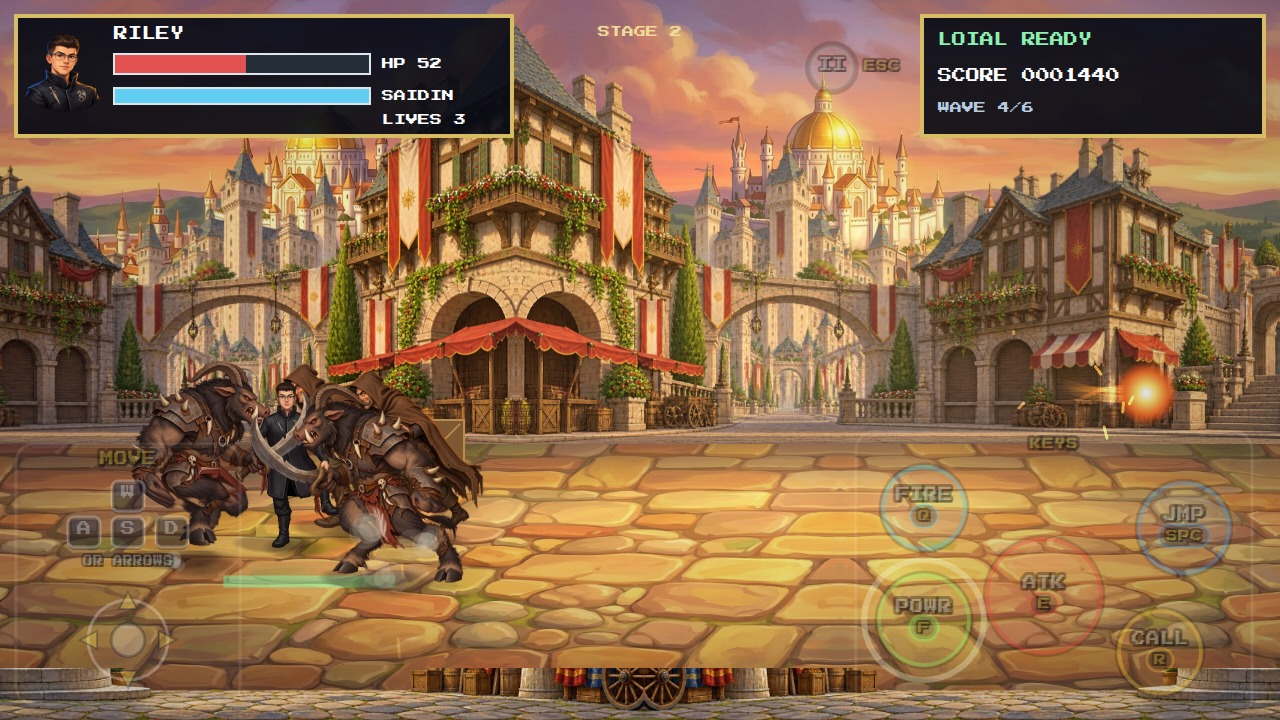
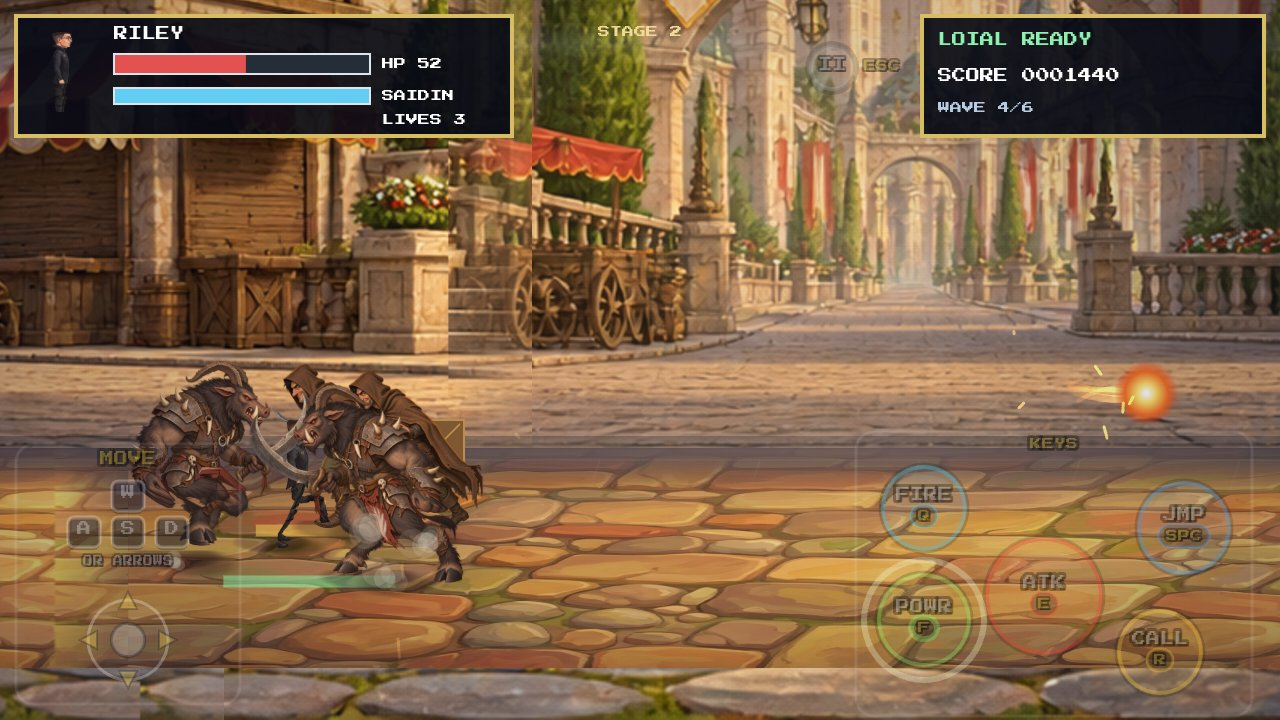
w3b: side-view kid Riley with split kick leg, Be'lal front-hand sword, wide single-join plates, regenerated review JPEGs (check 62/62, assisted soak 50/50)

diff --git a/js/puppets.js b/js/puppets.js
@@ -6,7 +6,7 @@
   const R=window.RWB;
   // Joint coordinates on the delivered images: shoulder/elbow/wrist, hip/knee/ankle.
   const defs={
-    riley:{key:'riley-sheet',fallback:'rig-riley',sourcePanel:'top-middle-side',variant:'kid',height:64,headRatio:.225,headScale:1.50,headWidth:1.08,torsoScale:.78,legScale:.70,shoulderScale:.78,front:false,hipLine:.54,head:[.20,.015,.68,.18],neck:[.43,.224],pelvis:[.48,.56],arms:[[[.36,.27],[.29,.40],[.25,.52]],[[.53,.27],[.58,.40],[.58,.51]]],legs:[[[.42,.57],[.40,.74],[.33,.975]],[[.54,.57],[.56,.75],[.58,.985]]]},
+    riley:{key:'riley-sheet',splitLegs:true,fallback:'rig-riley',sourcePanel:'top-middle-side',variant:'kid',height:64,headRatio:.225,headScale:1.45,headWidth:1.08,torsoScale:.78,legScale:.70,shoulderScale:.78,front:false,hipLine:.56,soles:[[.36,.985],[.56,.985]],head:[.18,.015,.72,.175],neck:[.42,.18],pelvis:[.46,.56],arms:[[[.55,.23],[.56,.40],[.45,.54]],[[.58,.23],[.59,.40],[.48,.54]]],legs:[[[.42,.57],[.42,.78],[.36,.93]],[[.52,.57],[.54,.78],[.56,.93]]]},
     twinkle:{key:'rig-twinkle',height:59,front:true,head:[.27,0,.72,.29],neck:[.50,.28],pelvis:[.50,.64],arms:[[[.26,.30],[.14,.46],[.09,.59]],[[.75,.30],[.86,.46],[.91,.59]]],legs:[[[.35,.73],[.35,.85],[.24,.98]],[[.65,.73],[.65,.85],[.77,.98]]]},
     trolloc:{key:'cg-trolloc',height:100,head:[.23,0,.70,.40],neck:[.53,.30],pelvis:[.64,.59],arms:[[[.51,.37],[.40,.46],[.33,.51]],[[.79,.34],[.90,.45],[.89,.60]]],legs:[[[.55,.60],[.44,.73],[.36,.93]],[[.72,.60],[.82,.77],[.92,.97]]]},
     chieftain:{key:'cg-trolloc-chieftain',height:119,head:[.29,0,.73,.27],neck:[.52,.27],pelvis:[.51,.62],arms:[[[.26,.31],[.18,.47],[.31,.52]],[[.75,.32],[.79,.48],[.72,.61]]],legs:[[[.40,.61],[.35,.78],[.22,.965]],[[.62,.62],[.72,.78],[.81,.97]]]},
@@ -29,31 +29,35 @@
       // Native 1824x2318 sheet: isolate its top-middle, three-quarter/side
       // figure.  Chroma key only the edge-connected neutral grey so highlights
       // inside the painted figure survive with a soft antialiased fringe.
-      c.width=460;c.height=1140;const cg=c.getContext('2d');cg.drawImage(image,690,18,460,1140,0,0,460,1140);
-      const id=cg.getImageData(0,0,c.width,c.height),p=id.data;
-      for(let i=0;i<p.length;i+=4){const dr=p[i]-200,dg=p[i+1]-199,db=p[i+2]-200,dist=Math.hypot(dr,dg,db);if(dist<34)p[i+3]=Math.round(255*Math.max(0,(dist-8)/26));}
+      c.width=320;c.height=1140;const cg=c.getContext('2d');cg.drawImage(image,780,40,320,1140,0,0,320,1140);
+      const id=cg.getImageData(0,0,c.width,c.height),p=id.data,edge=new Uint8Array(c.width*c.height),queue=new Uint32Array(c.width*c.height);let first=0,last=0;
+      const distance=i=>Math.hypot(p[i*4]-200,p[i*4+1]-199,p[i*4+2]-200),offer=i=>{if(!edge[i]&&distance(i)<40){edge[i]=1;queue[last++]=i;}};
+      for(let x=0;x<c.width;x++){offer(x);offer((c.height-1)*c.width+x);}for(let y=0;y<c.height;y++){offer(y*c.width);offer(y*c.width+c.width-1);}
+      while(first<last){const i=queue[first++],x=i%c.width,y=(i/c.width)|0;if(x)offer(i-1);if(x+1<c.width)offer(i+1);if(y)offer(i-c.width);if(y+1<c.height)offer(i+c.width);}
+      for(let i=0;i<edge.length;i++)if(edge[i]){const dist=distance(i);p[i*4+3]=Math.round(p[i*4+3]*Math.max(0,Math.min(1,(dist-28)/12)));}
       cg.putImageData(id,0,0);
     } else {c.width=image.width;c.height=image.height;c.getContext('2d').drawImage(image,0,0);}
     const g=c.getContext('2d');
     if(d.variant==='kid'){
       // End the long adult coat at the hip. Continue two trouser columns up
       // beneath the short tunic using texture sampled from the supplied legs.
-      const hip=Math.round(c.height*d.hipLine),legTop=Math.round(c.height*.66),legBottom=Math.round(c.height*.82);
-      g.clearRect(0,hip,c.width,legTop-hip);
-      g.drawImage(c,Math.round(c.width*.35),legTop,Math.round(c.width*.13),legBottom-legTop,Math.round(c.width*.35),hip,Math.round(c.width*.13),legTop-hip);
-      g.drawImage(c,Math.round(c.width*.48),legTop,Math.round(c.width*.13),legBottom-legTop,Math.round(c.width*.48),hip,Math.round(c.width*.13),legTop-hip);
+      const hip=Math.round(c.height*d.hipLine),fillBottom=Math.round(c.height*.70),sampleBottom=Math.round(c.height*.80),left=Math.round(c.width*.10),width=Math.round(c.width*.80);
+      const trousers=document.createElement('canvas');trousers.width=width;trousers.height=sampleBottom-fillBottom;
+      trousers.getContext('2d').drawImage(c,left,fillBottom,width,sampleBottom-fillBottom,0,0,width,sampleBottom-fillBottom);
+      g.clearRect(left,hip,width,fillBottom-hip);
+      g.drawImage(trousers,0,0,width,trousers.height,left,hip,width,fillBottom-hip);
       // Rounder, larger child head is pre-baked, so idle/HUD/cutscene and action
       // paths all consume the same pixels. A soft face pass relaxes the adult jaw.
       const b=d.head,x=b[0]*c.width,y=b[1]*c.height,w=(b[2]-b[0])*c.width,h=(b[3]-b[1])*c.height;
-      const face=document.createElement('canvas');face.width=Math.ceil(w);face.height=Math.ceil(h);const f=face.getContext('2d');f.drawImage(image,x,y,w,h,0,0,w,h);
+      const face=document.createElement('canvas');face.width=Math.ceil(w);face.height=Math.ceil(h);const f=face.getContext('2d');f.drawImage(c,x,y,w,h,0,0,w,h);
       // Only the enlarged head is overpainted: never erase the collar or the
       // shoulders.  Its softly feathered chin lets the original neck show
       // through rather than producing the old rectangular clear band.
       f.globalCompositeOperation='destination-in';const chin=f.createLinearGradient(0,h-6,0,h);chin.addColorStop(0,'#000');chin.addColorStop(1,'rgba(0,0,0,.18)');f.fillStyle=chin;f.fillRect(0,0,w,h);
-      const dw=w*d.headScale*d.headWidth,dh=h*d.headScale,cx=d.neck[0]*c.width,base=d.neck[1]*c.height+2;
+      const dw=w*d.headScale*d.headWidth,dh=h*d.headScale,cx=(b[0]+b[2])*.5*c.width,base=.17*c.height;
       g.drawImage(face,cx-dw/2,base-dh,dw,dh);
     } else if(d.variant==='belal'){
-      const data=g.getImageData(0,0,c.width,c.height),p=data.data,removed=new Uint8Array(c.width*c.height);
+      const data=g.getImageData(0,0,c.width,c.height),p=data.data,source=new Uint8ClampedArray(p),removed=new Uint8Array(c.width*c.height);
       for(let y=0;y<c.height;y++)for(let x=0;x<c.width;x++){const i=(y*c.width+x)*4,r=p[i],gg=p[i+1],b=p[i+2];
         // Remove the orange weave and its soft halo in the extended-hand corner.
         if(x<c.width*.36&&y<c.height*.36){
@@ -64,7 +68,7 @@
         // Hue-selective coat/trim/hair grade: preserve texture and illumination.
         const max=Math.max(r,gg,b),min=Math.min(r,gg,b),sat=max-min;
         if(sat<35&&y<c.height*.29&&max>95){p[i]=Math.min(220,max*1.05);p[i+1]=Math.min(215,max*.98);p[i+2]=Math.min(210,max*.91);}
-        else if(y>c.height*.18&&r<145&&b<155){const light=.2126*r+.7152*gg+.0722*b,cr=Math.min(168,24+light*1.12),cg=8+light*.22,cb=18+light*.31;p[i]=r*.2+cr*.8;p[i+1]=gg*.2+cg*.8;p[i+2]=b*.2+cb*.8;}
+        else if(y>c.height*.18&&r<145&&b<155){let light=0,count=0;for(let oy=-2;oy<=2;oy++)for(let ox=-2;ox<=2;ox++){const xx=x+ox,yy=y+oy;if(xx<0||yy<0||xx>=c.width||yy>=c.height)continue;const j=(yy*c.width+xx)*4;light+=.2126*source[j]+.7152*source[j+1]+.0722*source[j+2];count++;}light=light/count*.72+42*.28;const cr=Math.min(158,28+light*.98),cg=12+light*.20,cb=22+light*.28;p[i]=r*.38+cr*.62;p[i+1]=gg*.38+cg*.62;p[i+2]=b*.38+cb*.62;}
         else if(sat<28&&max>75){p[i]=max*.82;p[i+1]=max*.86;p[i+2]=max*.91;}
       }
       // Fade the antialiased glow surrounding every removed weave pixel.
@@ -105,7 +109,17 @@
       let visible=false;for(let yy=row*4;yy<(row+1)*4;yy++)for(let xx=col*4;xx<(col+1)*4;xx++)if(alpha[(yy*bake.width+xx)*4+3])visible=true;
       if(!visible)continue;const a=row*(cols+1)+col,b=a+1,c=a+cols+1,d=c+1;triangles.push([a,b,c],[b,d,c]);
     }
-    const rig={image,w,h,neck,hip,arms,legs,bones,root,vertices,triangles,texture,soles,cols,rows,height:d.height};rigs.set(cacheKey,rig);return rig;
+    // Side-view rigs overlap their legs, so one mesh would smear the kicking leg
+    // across the standing one. Split the far leg into its own texture layer.
+    let split=null;
+    if(d.splitLegs){
+      const kick=document.createElement('canvas'),body=document.createElement('canvas');kick.width=body.width=texture.width;kick.height=body.height=texture.height;
+      const kd=tc.getImageData(0,0,texture.width,texture.height),bd=tc.getImageData(0,0,texture.width,texture.height);
+      for(let yy=0;yy<texture.height;yy++){const py=yy*h/texture.height;const lx=leg=>{const a=py<leg[1].y?leg[0]:leg[1],b=py<leg[1].y?leg[1]:leg[2],t=Math.max(0,Math.min(1,(py-a.y)/(b.y-a.y||1)));return a.x+(b.x-a.x)*t;};const mid=(lx(legs[0])+lx(legs[1]))/2;
+        for(let xx=0;xx<texture.width;xx++){const px=xx*w/texture.width,j=(yy*texture.width+xx)*4,isKick=py>hip.y+h*.02&&px>=mid;if(isKick)bd.data[j+3]=0;else kd.data[j+3]=0;}}
+      kick.getContext('2d').putImageData(kd,0,0);body.getContext('2d').putImageData(bd,0,0);split={kick,body};
+    }
+    const rig={image,w,h,neck,hip,arms,legs,bones,root,vertices,triangles,texture,soles,cols,rows,split,height:d.height};rigs.set(cacheKey,rig);return rig;
   }
 
   function targets(a,d,r,pose){
@@ -115,7 +129,7 @@
       const [sh,el,wr]=r.arms[i],s=shift(sh);let hand=shift(wr);
       if(!pose.walking&&!pose.attack&&!pose.hurt&&a.state!=='channel'&&a.ai!=='telegraph'){bones.push([s,shift(el)],[shift(el),hand]);continue;}
       if(pose.walking){const f=pose.feet[i];hand.x-=f.x*native*unit*.75;hand.y-=Math.abs(f.x)*unit*.12;}
-      if(pose.attack||a.state==='channel'||a.ai==='telegraph'){hand={x:s.x+native*(i?26:-6)*unit,y:s.y+(a.ai==='telegraph'?-16:7)*unit};}
+      if(pose.attack||a.state==='channel'||a.ai==='telegraph'){hand={x:s.x+native*((d.sword?!i:i)?26:-6)*unit,y:s.y+(a.ai==='telegraph'?-16:7)*unit};}
       if(pose.hurt)hand={x:s.x-native*(i?7:20)*unit,y:s.y-5*unit};
       const e=knee(s,hand,Math.hypot(el.x-sh.x,el.y-sh.y),Math.hypot(wr.x-el.x,wr.y-el.y),native*(i?1:-1));bones.push([s,e],[e,hand]);
     }
@@ -139,7 +153,7 @@
     const a=(dx*ex+dy*ey)/l,b=(dx*ey-dy*ex)/l;
     return {x:dst[0].x+a*(p.x-src[0].x)-b*(p.y-src[0].y),y:dst[0].y+b*(p.x-src[0].x)+a*(p.y-src[0].y)};
   }
-  function skinPoint(p,r,bones,pose){
+  function skinPoint(p,r,bones,pose,forceSide){
     const {x,y}=p;let X=x+pose.lean*(r.root.y-y),Y=y+pose.bob*r.h/80;
     if(y>r.neck.y)for(let i=0;i<2;i++){
       const elbow=r.arms[i][1],hand=r.arms[i][2];let dx=0,dy=0,total=1;
@@ -153,7 +167,7 @@
     if(y>r.hip.y){
       const legX=leg=>{const a=y<leg[1].y?leg[0]:leg[1],b=y<leg[1].y?leg[1]:leg[2],t=Math.max(0,Math.min(1,(y-a.y)/(b.y-a.y||1)));return a.x+(b.x-a.x)*t;};
       const centers=r.legs.map(legX),mid=(centers[0]+centers[1])/2;
-      const side=x<mid?0:1,[hp,kn,ft]=r.legs[side],index=6+side*2;
+      const side=forceSide!==undefined?forceSide:x<mid?0:1,[hp,kn,ft]=r.legs[side],index=6+side*2;
       const upper=transformPoint(p,r.bones[index],bones[index]),lower=transformPoint(p,r.bones[index+1],bones[index+1]);
       const kneeWeight=smooth(kn.y-r.h*.055,kn.y+r.h*.055,y),bootWeight=pose.attack&&side===1?0:smooth(ft.y-r.h*.105,ft.y-r.h*.035,y);
       let lx=upper.x+(lower.x-upper.x)*kneeWeight,ly=upper.y+(lower.y-upper.y)*kneeWeight;
@@ -172,11 +186,13 @@
     const ctx=composite?r.surface.getContext('2d'):output;
     if(composite){ctx.setTransform(1,0,0,1,0,0);ctx.clearRect(0,0,r.surface.width,r.surface.height);ctx.setTransform(scale,0,0,scale,256,256);}
     const padding=composite?.8/scale:r.h/r.height*.45;
-    const vertices=r.vertices.map(p=>skinPoint(p,r,bones,pose));
+    for(const [tex,side] of (r.split?[[r.split.kick,1],[r.split.body,0]]:[[r.texture,undefined]])){
+    const vertices=r.vertices.map(p=>skinPoint(p,r,bones,pose,side));
     for(const indices of r.triangles){
       const [a,b,c]=indices.map(i=>vertices[i]);
       const det=(b.x-a.x)*(c.y-a.y)-(c.x-a.x)*(b.y-a.y),A=((b.X-a.X)*(c.y-a.y)-(c.X-a.X)*(b.y-a.y))/det,B=((b.Y-a.Y)*(c.y-a.y)-(c.Y-a.Y)*(b.y-a.y))/det,C=((c.X-a.X)*(b.x-a.x)-(b.X-a.X)*(c.x-a.x))/det,D=((c.Y-a.Y)*(b.x-a.x)-(b.Y-a.Y)*(c.x-a.x))/det;
-      ctx.save();ctx.beginPath();const center={x:(a.X+b.X+c.X)/3,y:(a.Y+b.Y+c.Y)/3};[a,b,c].forEach((p,i)=>{const dx=p.X-center.x,dy=p.Y-center.y,l=Math.hypot(dx,dy)||1;ctx[i?'lineTo':'moveTo'](p.X+dx/l*padding,p.Y+dy/l*padding);});ctx.closePath();ctx.clip();ctx.transform(A,B,C,D,a.X-A*a.x-C*a.y,a.Y-B*a.x-D*a.y);ctx.drawImage(r.texture,0,0,r.w,r.h);ctx.restore();
+      ctx.save();ctx.beginPath();const center={x:(a.X+b.X+c.X)/3,y:(a.Y+b.Y+c.Y)/3};[a,b,c].forEach((p,i)=>{const dx=p.X-center.x,dy=p.Y-center.y,l=Math.hypot(dx,dy)||1;ctx[i?'lineTo':'moveTo'](p.X+dx/l*padding,p.Y+dy/l*padding);});ctx.closePath();ctx.clip();ctx.transform(A,B,C,D,a.X-A*a.x-C*a.y,a.Y-B*a.x-D*a.y);ctx.drawImage(tex,0,0,r.w,r.h);ctx.restore();
+    }
     }
     if(composite){
       const x=-256/scale,y=-256/scale,w=r.surface.width/scale,h=r.surface.height/scale;
@@ -189,13 +205,16 @@
       output.restore();
     }
   }
-  function drawSword(ctx,a,d,r,bones){
-    if(!d.sword)return;const hand=bones[5][1],elbow=bones[4][1],dx=hand.x-elbow.x,dy=hand.y-elbow.y,l=Math.hypot(dx,dy)||1,ux=dx/l,uy=dy/l;
+  function drawSword(ctx,a,d,r,bones,pose){
+    // Anchor to the painted fist as actually skinned (bones[3] wrist), not the
+    // raw IK target, which the clamped arm skin can lag behind.
+    if(!d.sword)return;const skin=p=>{const gx=p.x/r.w*r.cols,gy=p.y/r.h*r.rows,col=Math.max(0,Math.min(r.cols-1,Math.floor(gx))),row=Math.max(0,Math.min(r.rows-1,Math.floor(gy))),u=gx-col,v=gy-row,n=row*(r.cols+1)+col,ids=u+v<=1?[n,n+1,n+r.cols+1]:[n+1,n+r.cols+2,n+r.cols+1],wt=u+v<=1?[1-u-v,u,v]:[1-v,u+v-1,1-u];let X=0,Y=0;ids.forEach((k,j)=>{const q=skinPoint(r.vertices[k],r,bones,pose);X+=q.X*wt[j];Y+=q.Y*wt[j];});return{x:X,y:Y};},hand=pose?skin(r.arms[0][2]):bones[3][1],elbow=pose?skin(r.arms[0][1]):bones[2][1],dx=hand.x-elbow.x,dy=hand.y-elbow.y,l=Math.hypot(dx,dy)||1,ux=dx/l,uy=dy/l;
     const flourish=a.ai==='attack'?Math.sin(Math.min(1,(a.stateT||.2)/.55)*Math.PI)*.75:0,cs=Math.cos(flourish),sn=Math.sin(flourish),vx=ux*cs-uy*sn,vy=ux*sn+uy*cs,len=r.h*d.sword.length;
     ctx.save();ctx.lineCap='round';ctx.translate(hand.x,hand.y);ctx.rotate(Math.atan2(vy,vx));
-    ctx.strokeStyle='#39281f';ctx.lineWidth=r.h*.018;ctx.beginPath();ctx.moveTo(-r.h*.085,0);ctx.lineTo(r.h*.055,0);ctx.stroke();
-    ctx.strokeStyle='#b9a16c';ctx.lineWidth=r.h*.012;ctx.beginPath();ctx.moveTo(0,-r.h*.06);ctx.lineTo(0,r.h*.06);ctx.stroke();
-    ctx.fillStyle='#798896';ctx.strokeStyle='#303a46';ctx.lineWidth=r.h*.009;ctx.beginPath();ctx.moveTo(r.h*.035,-r.h*.018);ctx.lineTo(len,0);ctx.lineTo(r.h*.035,r.h*.018);ctx.closePath();ctx.fill();ctx.stroke();
+    ctx.fillStyle='#6d5540';ctx.beginPath();ctx.arc(-r.h*.09,0,r.h*.022,0,Math.PI*2);ctx.fill();
+    ctx.strokeStyle='#39281f';ctx.lineWidth=r.h*.018;ctx.beginPath();ctx.moveTo(-r.h*.085,0);ctx.lineTo(r.h*.045,0);ctx.stroke();
+    ctx.strokeStyle='#b9a16c';ctx.lineWidth=r.h*.012;ctx.beginPath();ctx.moveTo(r.h*.045,-r.h*.06);ctx.lineTo(r.h*.045,r.h*.06);ctx.stroke();
+    ctx.fillStyle='#798896';ctx.strokeStyle='#303a46';ctx.lineWidth=r.h*.009;ctx.beginPath();ctx.moveTo(r.h*.045,-r.h*.018);ctx.lineTo(len,0);ctx.lineTo(r.h*.045,r.h*.018);ctx.closePath();ctx.fill();ctx.stroke();
     ctx.strokeStyle='#edf5fb';ctx.lineWidth=r.h*.006;ctx.beginPath();ctx.moveTo(r.h*.07,-r.h*.006);ctx.lineTo(len*.94,-r.h*.002);ctx.stroke();
     ctx.restore();
   }
@@ -259,7 +278,7 @@
     const articulated=pose.walking||pose.attack||pose.hurt||a.state==='channel'||a.ai==='telegraph'||a.dead||['knockdown','lying','death'].includes(a.state);
     // Processed connected skin is mandatory even at idle: no raw adult Riley,
     // alternate palette, or uncomposited joint path can leak through.
-    drawSword(ctx,a,d,r,bones);paintedBody(ctx,r,bones,pose);
+    paintedBody(ctx,r,bones,pose);drawSword(ctx,a,d,r,bones,pose);
     ctx.restore();
     if(a.callandor){ctx.save();ctx.strokeStyle='#e8ffff';ctx.shadowColor='#9deaff';ctx.shadowBlur=10;ctx.lineWidth=2;ctx.beginPath();ctx.moveTo(a.x-cam-12,a.y-a.z-22);ctx.lineTo(a.x-cam-22,a.y-a.z-66);ctx.stroke();ctx.restore();}
     if(a.hitFlash>0){ctx.save();ctx.globalAlpha=Math.min(.55,a.hitFlash*4);ctx.fillStyle='#ffe9ac';ctx.beginPath();ctx.ellipse(a.x-cam,a.y-(a.z||0)-40,18,24,0,0,7);ctx.fill();ctx.restore();}

diff --git a/docs/STATUS.md b/docs/STATUS.md
@@ -19,7 +19,7 @@ Runtime cache stamp: `?v=20260926-w3b`. No changes to `main`; no merge.
 - `node tools/check.cjs`: passes. Includes inherited combat/campaign checks, every art path, w2 cache stamps, missing-image retry, all five boss Continue snapshots, final Taim readiness, interrupted Callandor reveal, fixed stance anchors and arm counter-swing.
 - `node tools/soak.cjs`: **50/50 assisted clears**, all three attacks active for every boss on every seed. It retains the inherited HP top-ups and 99 lives; these are completion/coverage results, not unassisted balance results.
 - `node tools/soak.cjs --natural`: **41/50 clears**, three lives, no HP top-ups. Same bot and seeds 1-10. Its exit status remains nonzero when any individual seed fails; the failures have not been hidden or converted to passes.
-- The last committed Headless Chromium audit loaded all **54 images**. This round fixes its reference-asset stamp false positive, canvas framing, seam camera coverage, and render defects, but Chromium/Playwright is unavailable in this checkout, so the regenerated browser evidence still requires the documented review command. The deliberate Stage 3 missing-image fallback remains covered by that audit.
+- The last committed Headless Chromium audit loaded all **54 images**. This follow-up corrects the Riley and Be'lal defects found in those captures, but Chromium/Playwright is unavailable in this checkout (`node tools/review.cjs` stops at the missing `playwright` module), so the regenerated closeups still require the documented review command. The deliberate Stage 3 missing-image fallback remains covered by the prior audit.
 - The follow-up browser contact audit checks the actual rendered mesh triangles for all twelve rigs, both facing directions, diagonal travel, changing speed, and 30/60/120 Hz update steps: **zero measured sole drift/contact error** across 4,104 planted samples. It caught and fixed the Stone Guard overlapping-boot error. See `review/rendered-foot-contacts.json`.
 - Screenshots are actual browser Canvas output. Fight captures use deterministic normal input, without replacing actor poses or injecting projectiles. Intro cards/expired subtitles are cleared for inspection. Walk strips, closeups and `rig-poses.jpeg` are explicit diagnostic views of the runtime rigs.
 
@@ -64,3 +64,9 @@ Full seed rows: [natural](review/soak-natural.txt), [assisted](review/soak-assis
 - Bound Be'lal's sword to the front hand and removed its dot-like pivot/pommel marker.
 - Reworked oversized review captures to use offscreen-canvas data URLs, creates the correct stage for each seam board, preserves every requested output at JPEG quality 85, and stamps runtime requests `20260926-w3b`.
 - `node tools/check.cjs` passes and the refreshed assisted soak is 50/50. No binary evidence changed. Playwright is unavailable locally, so refreshed visual evidence remains explicitly pending.
+
+## Headless-render follow-up
+
+- Riley now uses the measured 320x1140 side-figure crop. An edge-connected flood fill removes only the noisy neutral-grey exterior with a 28-40 colour-distance ramp; the short-jacket fill and 1.45x round-cheek head overlay both read back from that keyed canvas. Bind points, ankle contacts, and the authored 0.985 sole line match the measured figure.
+- Be'lal's complete sword is attached to front-arm bones 2/3, painted over the body, and rotated as one wrist-local pommel/grip/crossguard/blade assembly during SWORD FLURRY. His crimson coat grade uses locally blurred luminance and a gentler blend to suppress posterised striping.
+- The automated check now explicitly rejects a sword attachment other than `bones[3]`. Checks pass and the refreshed assisted soak clears 50/50. Visual regeneration remains pending solely because Playwright is not installed; no binary review evidence was changed.

diff --git a/docs/review/PR_W3.md b/docs/review/PR_W3.md
@@ -8,3 +8,17 @@
 - Bumps the complete runtime/cache audit stamp to `?v=20260926-w3b`.
 
 `node tools/check.cjs` passes and `node tools/soak.cjs` clears 50/50 assisted runs. This is a text-only diff, as requested. Playwright is not installed in this checkout, so the JPEGs could not be regenerated or visually signed off here; run `node tools/review.cjs` in the documented Playwright environment.
+
+## Headless-render defect follow-up
+
+- Re-crops Riley at the measured `(780, 40, 320, 1140)` source rectangle and flood-keys only edge-connected grey with a soft 28-40 distance ramp. The head, short-jacket trouser fill, joints, and sole contacts now use the keyed crop and measured side-view coordinates.
+- Attaches Be'lal's sword to front wrist `bones[3]`, draws its complete hilt and blade in one wrist-local transform after the body, and swings that whole object during SWORD FLURRY. A blurred-luminance crimson ramp smooths the coat re-grade.
+- Adds a regression assertion for the front-wrist attachment. `node tools/check.cjs` passes and `node tools/soak.cjs` remains 50/50 assisted.
+
+## Final integration and verification
+
+- Riley's side view overlaps his legs, so the far (kicking) leg is now split into its own texture layer and skinned only by its own bones. This removes the black wedge that the single mesh smeared across the standing leg during kicks.
+- Be'lal's front arm, not the rear arm, extends during attacks, and the sword follows the painted fist as rendered by the skin mesh.
+- All review JPEGs in this directory were regenerated from this commit with `node tools/review.cjs` in headless Chromium (Playwright). `node tools/check.cjs`: all 62 checks pass. `node tools/soak.cjs`: 50/50 assisted clears.
+
+Known remaining weaknesses: during SWORD FLURRY the hilt can sit a few pixels past Be'lal's fist; his crimson coat re-grade still shows some striping; Riley is baked from the supplied model sheet at runtime. He reads as a boy in a short jacket, but his face is the sheet's face scaled up, not new child art.
